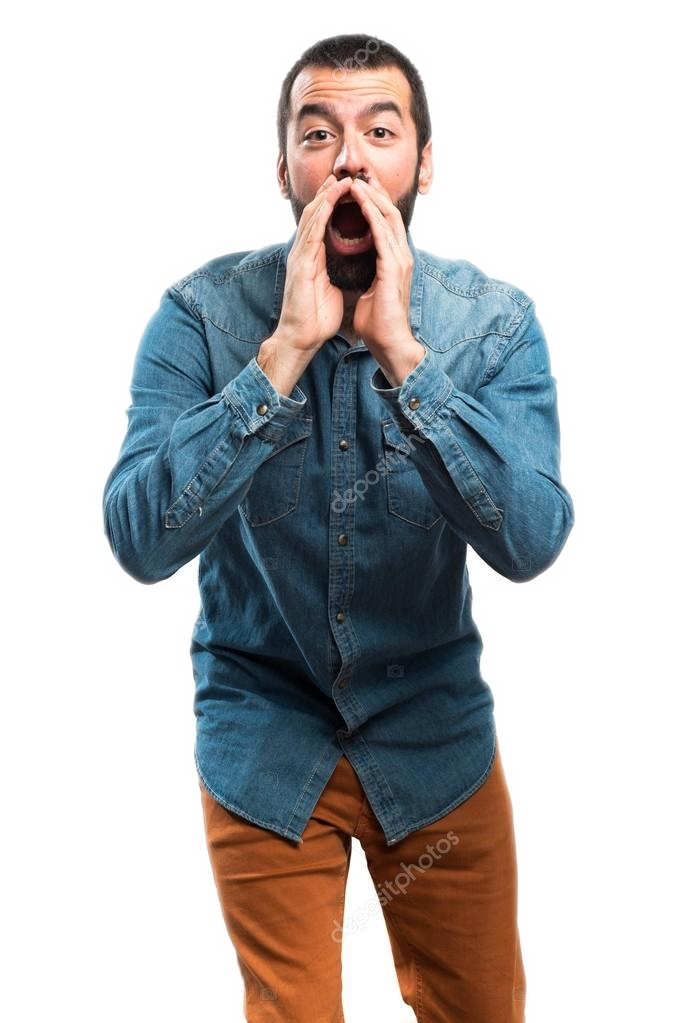
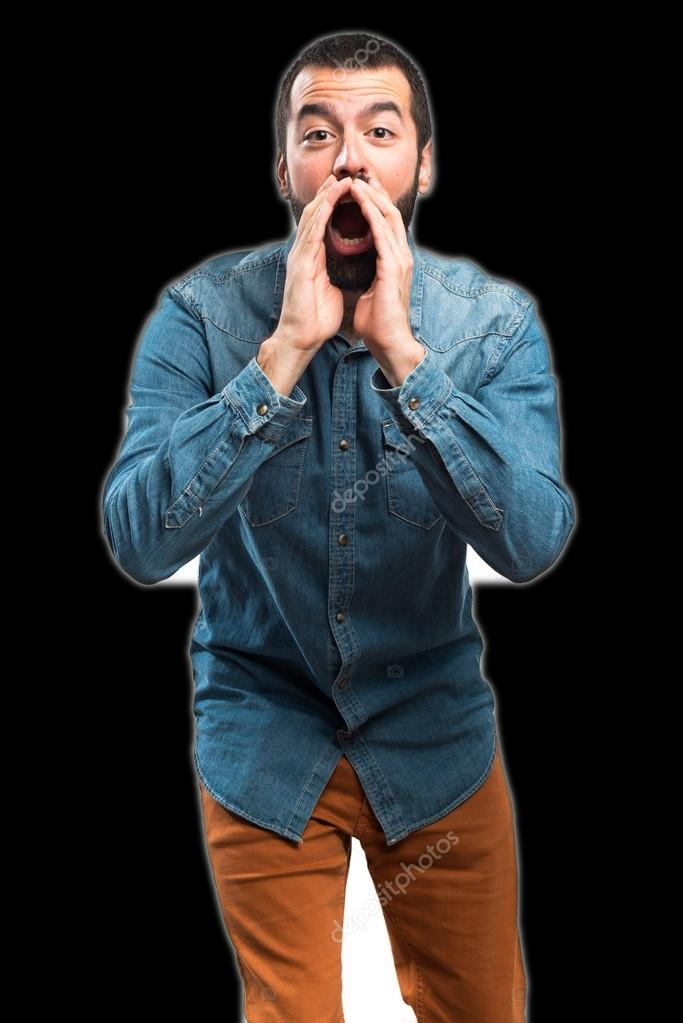
Codigo funcional

diff --git a/app.py b/app.py
@@ -31,7 +31,7 @@ CANNY_THRESH_1 = 10
 CANNY_THRESH_2 = 200 
 MASK_DILATE_ITER = 10 
 MASK_ERODE_ITER = 10 
-MASK_COLOR = (1.0,1.0,1.0) # In BGR format 
+MASK_COLOR = (.0,.0,.0) # In BGR format 
 
 
 
@@ -72,6 +72,7 @@ def prueba3():
     mask = np.zeros(bordes.shape) 
     cv2.fillConvexPoly(mask, max_contour[0], (255))
     cv2.imshow("mascara", mask)
+    cv2.imwrite("mascara.png", mask)
 
     #Suavizado de la máscara, blur
     mask = cv2.dilate(mask, None, iterations=MASK_DILATE_ITER) 
@@ -97,9 +98,15 @@ def prueba3():
     wi, hi, channelsi = final.shape
     print(wi,hi)
     fondo_res = cv2.resize(fondo, dsize=(hi, wi), interpolation=cv2.INTER_CUBIC)
+
+    #posible opción
+    #fondo_res = cv2.subtract(fondo_res, final)
+    #cv2.imshow("fondo",fondo_res) # Con la gilipollez queda guapo
+    mascara = cv2.imread("mascara.png")
+    fondo_res = cv2.subtract(fondo_res, mascara)
     cv2.imshow("fondo",fondo_res)
 
-    res = cv2.addWeighted(final, 0.5, fondo_res, 0.5, 0.0)
+    res = cv2.addWeighted(final, 1, fondo_res, 1, 0.0)
 
     cv2.imshow("final final", res)
 
